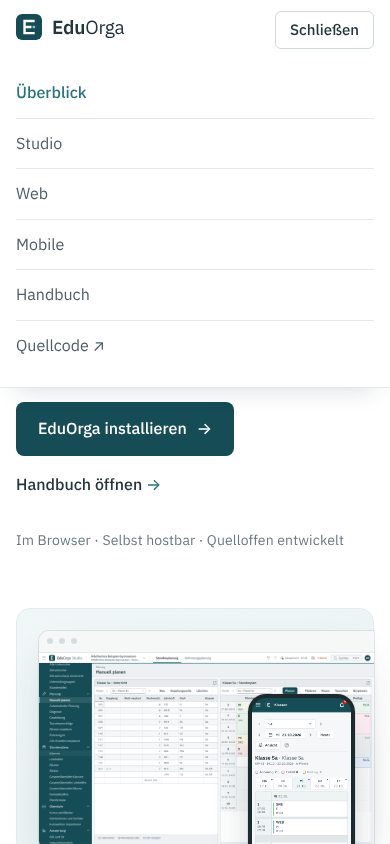
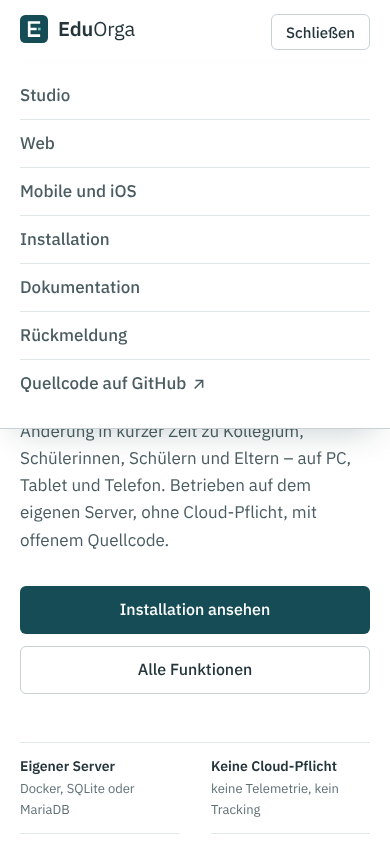
Website: Bildschirmfotos (1440 und 390 px) und README der Website aktualisiert
Claude-Session: https://claude.ai/code/session_01Qh4Tuihm3YFN8v1UQgn9UW

diff --git a/website/client/src/stil.css b/website/client/src/stil.css
@@ -434,7 +434,7 @@ code {
 /* ---- Bühne (Startseite) ------------------------------------------------------------------------------------------ */
 
 .buehne {
-  padding: 96px 0 0;
+  padding: 80px 0 0;
 }
 
 .buehne > .breite:first-child {
@@ -1880,6 +1880,7 @@ code {
   }
   .hauptnav-mobil {
     display: flex !important;
+    gap: 6px;
     border-bottom: 0 !important;
   }
   .abschnitt,

diff --git a/website/README.md b/website/README.md
@@ -1,7 +1,8 @@
 # EduOrga Website
 
 Produkt-Website von **EduOrga** („Einfach mehr Schulalltag.“): Überblick, die Anwendungen Studio, Web, Mobile und die
-App für iPhone und iPad, Installation, Handbuch sowie Hinweis, Impressum und Datenschutz. Marke, Farben und rechtlicher
+App für iPhone und iPad mit ehrlichem Stand der Plattformen, Installation Schritt für Schritt, Dokumentation je Anwendung,
+Rückmeldung über GitHub sowie Hinweis, Impressum und Datenschutz. Marke, Farben und rechtlicher
 Hinweis folgen [`design/MARKE.md`](../design/MARKE.md).
 
 Die Website ist **nicht Teil der Installation an Schulen**. Betrieben wird sie getrennt mit
@@ -11,22 +12,37 @@ Ideen laufen über GitHub: [Issues](https://github.com/florians25/EduOrga/issues
 
 ![Startseite](docs/bilder/start-desktop.png)
 
-| Anwendungen | Studio | Handbuch | Telefon |
+| Studio | Mobile und iOS | Installation | Dokumentation |
 |---|---|---|---|
-| ![Anwendungen](docs/bilder/anwendungen-desktop.png) | ![Studio](docs/bilder/studio-desktop.png) | ![Handbuch](docs/bilder/handbuch-desktop.png) | ![Telefon](docs/bilder/start-telefon.png) |
+| ![Studio](docs/bilder/studio-desktop.png) | ![Mobile und iOS](docs/bilder/ios-desktop.png) | ![Installation](docs/bilder/installation-desktop.png) | ![Dokumentation](docs/bilder/dokumentation-desktop.png) |
+
+| Telefon | Menü | Rückmeldung | Ganze Startseite |
+|---|---|---|---|
+| ![Telefon](docs/bilder/start-telefon.png) | ![Menü](docs/bilder/menue-telefon.png) | ![Rückmeldung](docs/bilder/rueckmeldung-desktop.png) | [1440 px](docs/bilder/start-ganz-desktop.png) · [390 px](docs/bilder/start-ganz-telefon.png) |
+
+Weitere Aufnahmen in [`docs/bilder/`](docs/bilder/): `web-desktop.png`, `mobile-desktop.png`, `mobile-telefon.png`,
+`installation-telefon.png`, `impressum-desktop.png` (Playwright, Chromium, 1440 × 900 bzw. 390 × 844).
 
 ## Seiten
 
 | Adresse | Inhalt |
 |---|---|
-| `/` | Bühne mit Slogan und Bildschirmfotos (Studio im Browserfenster, Web auf dem Telefon), Statusleiste, die Anwendungen, Installation, Handbuch |
-| `/studio`, `/web`, `/mobile` | je Anwendung: Beschreibung, Funktionen, weitere Ansichten, Technik; `/mobile#ios` die App für iPhone und iPad |
-| `/installation` | Befehle aus [`installation/README.md`](../installation/README.md): Installation, Container und Ports, Update, Passwort, Einstellungen |
-| `/handbuch` | Kapitel von [`docs/HANDBUCH.md`](../docs/HANDBUCH.md) (verlinkt auf GitHub), weitere Dokumentation, Rückmeldung über GitHub |
+| `/` | Startseite für Schulleitungen: Leitsatz, Studio im Browserfenster und Wochenplan im iPhone-Rahmen, „Ein Schulmorgen“ (Krankmeldung bis Plan auf dem Telefon), **Stand der Plattformen**, Für wen (Schulleitung, Stundenplanung, Lehrkräfte, Schüler*innen und Eltern), Vertretung in Minuten, Änderungen auf allen Geräten, Klassenbuch, Sprechtag und Mitteilungen, Datenschutz und Betrieb (DSGVO, eigener Server, offener Quellcode, Barrierefreiheit, Druck/PDF, Umstieg), Funktionen je Anwendung, So funktioniert’s, Rückmeldung über GitHub, häufige Fragen |
+| `/studio`, `/web` | je Anwendung: Beschreibung, Titelbild, Funktionen, weitere Ansichten, Technik |
+| `/mobile` | EduOrga Mobile (PWA), Stand der Apps, `#ios` die App für iPhone und iPad (**noch nicht im App Store veröffentlicht**), `#android` (**in Arbeit**); `/ios` und `/android` leiten dorthin |
+| `/installation` | Anleitung in zwölf Schritten nach `installation/README.md` und den Skripten: Voraussetzungen, `install.sh` mit seinen Fragen, Domain und HTTPS (Caddy oder vorhandener Reverse-Proxy mit nginx-Beispiel), erster Login und `passwort.sh`, Studio mit Web verbinden, SQLite oder MariaDB, `update.sh`, Sicherung und Wiederherstellung, Einstellungen, Fehlerbehebung, Deinstallieren |
+| `/dokumentation` | Kapitel je Anwendung aus `client/src/doku.ts`: Überblick, Studio (Erste Schritte, Stammdaten, Stundenplan, Tagesplanung und Vertretung, Veröffentlichen), Web, Mobile, iOS, Datenschutz und Rollen, Betrieb; Kapitel des Handbuchs (`docs/HANDBUCH.md`) mit Links auf GitHub; `/handbuch` leitet auf `/dokumentation#handbuch` |
+| `/rueckmeldung` | Fehler, Wünsche und Fragen über GitHub – direkt zu den Formularen `.github/ISSUE_TEMPLATE/fehler.yml` und `wunsch.yml` |
 | `/hinweis`, `/impressum`, `/datenschutz` | rechtlicher Hinweis und Vorlagen mit Platzhaltern für die Betreiberangaben |
 
-**Statusleiste** unter der Bühne: „Entwicklungsstand `<VERSION>` · Noch keine Veröffentlichung (bzw. Aktuelle Version
-`<Tag>` vom `<Datum>`) · Letzte Änderung `<Datum>`“ und der Link „Projektstand & Änderungen“ (Releases, solange es keine
+**Bildschirmfotos der iPhone-App:** `vorbereiten.mjs` übernimmt `ios/docs/bilder/plan-woche-hell.png`,
+`plan-woche-dunkel.png`, `stunde-details.png` und `stunde-klassenbuch.png` (920 × 2000) nach `public/bilder/ios/`. Fehlt
+eine Datei, nimmt es stattdessen das gleich gestaltete Bild von EduOrga Mobile (`mobile/docs/bilder/plan-woche.png`,
+`dunkel-plan-woche.png`, `stundendetails.png`, `stundendetails-klassenbuch.png`); die Bildunterschrift nennt das dann.
+Der Build schlägt nicht fehl ([`ios/docs/bilder/README.md`](../ios/docs/bilder/README.md)).
+
+**Stand der Plattformen** auf der Startseite: „Entwicklungsstand `<VERSION>` · Noch keine Veröffentlichung (bzw. Aktuelle Version
+`<Tag>` vom `<Datum>`) · Letzte Änderung `<Datum>`“ und der Link „Projektstand und Änderungen“ (Releases, solange es keine
 gibt die Liste der Commits). Die Werte ermittelt `client/scripts/vorbereiten.mjs` **beim Build** und schreibt sie nach
 `client/src/stand.json` (Build-Ausgabe, nicht eingecheckt):
 
@@ -36,6 +52,7 @@ gibt die Liste der Commits). Die Werte ermittelt `client/scripts/vorbereiten.mjs
 | Letzte Änderung, Commit | `WEBSITE_COMMIT_DATUM`/`WEBSITE_COMMIT`, sonst `git log -1`, sonst Zeitpunkt des Builds |
 | Neueste Veröffentlichung | `WEBSITE_RELEASE` (`-` = keine) und `WEBSITE_RELEASE_DATUM`, sonst GitHub-API `releases/latest` (5 s Zeitlimit, `WEBSITE_OFFLINE=1` schaltet die Abfrage ab) |
 | Kapitel des Handbuchs | Überschriften `## N. …` in `docs/HANDBUCH.md` |
+| Bildschirmfotos der iPhone-App | `ios/docs/bilder/*.png`, sonst Ersatz aus `mobile/docs/bilder` (`echt`, Breite, Höhe je Bild) |
 
 **Datenschutz:** keine externen Schriften, Skripte oder Dienste (Content-Security-Policy `default-src 'self'`), kein
 Tracking, keine Cookies, keine Formulare, keine Datenbank.
@@ -45,8 +62,8 @@ Tracking, keine Cookies, keine Formulare, keine Datenbank.
 ```text
 website/
 ├── client/                    Oberfläche: React 18, TypeScript (strict), Vite, React Router – ohne UI-Bibliothek
-│   ├── scripts/vorbereiten.mjs  Schrift, Logo (design/), Bildschirmfotos (studio|web|mobile/docs/bilder) → public/, Stand → src/stand.json
-│   └── src/                   seiten/, bausteine/ (Rahmen, Browserfenster, Telefon, Befehle), inhalt.ts (Texte), stand.ts, stil.css
+│   ├── scripts/vorbereiten.mjs  Schrift, Logo (design/), Bildschirmfotos (studio|web|mobile|ios/docs/bilder, docs/bilder/druck) → public/, Stand → src/stand.json
+│   └── src/                   seiten/, bausteine/ (Rahmen, Browserfenster, Telefon, Befehle), inhalt.ts (Texte), doku.ts (Dokumentation), stand.ts, stil.css
 ├── src/EduOrgaWebsite/        Server: ASP.NET Core 8, liefert wwwroot aus (Schutzköpfe, SPA-Rückfall, /api/gesundheit, /api/info)
 ├── tests/EduOrgaWebsite.Tests xUnit-Tests (WebApplicationFactory)
 ├── docs/bilder/               Bildschirmfotos (Playwright)
@@ -86,7 +103,7 @@ Tests:
 dotnet test website/tests/EduOrgaWebsite.Tests -c Release
 ```
 
-Sie prüfen: alle Seitenadressen liefern die Oberfläche (ohne Cookies), Schutzköpfe und Content-Security-Policy,
+Sie prüfen: alle Seitenadressen liefern die Oberfläche (ohne Cookies), jede dieser Adressen steht als Route in `client/src/main.tsx`, Schutzköpfe und Content-Security-Policy,
 Zwischenspeichern der Assets, Gesundheit, Betreiberangaben aus der Umgebung, frühere Portaladressen antworten mit 404.
 
 ## Einstellungen (Umgebungsvariablen)
